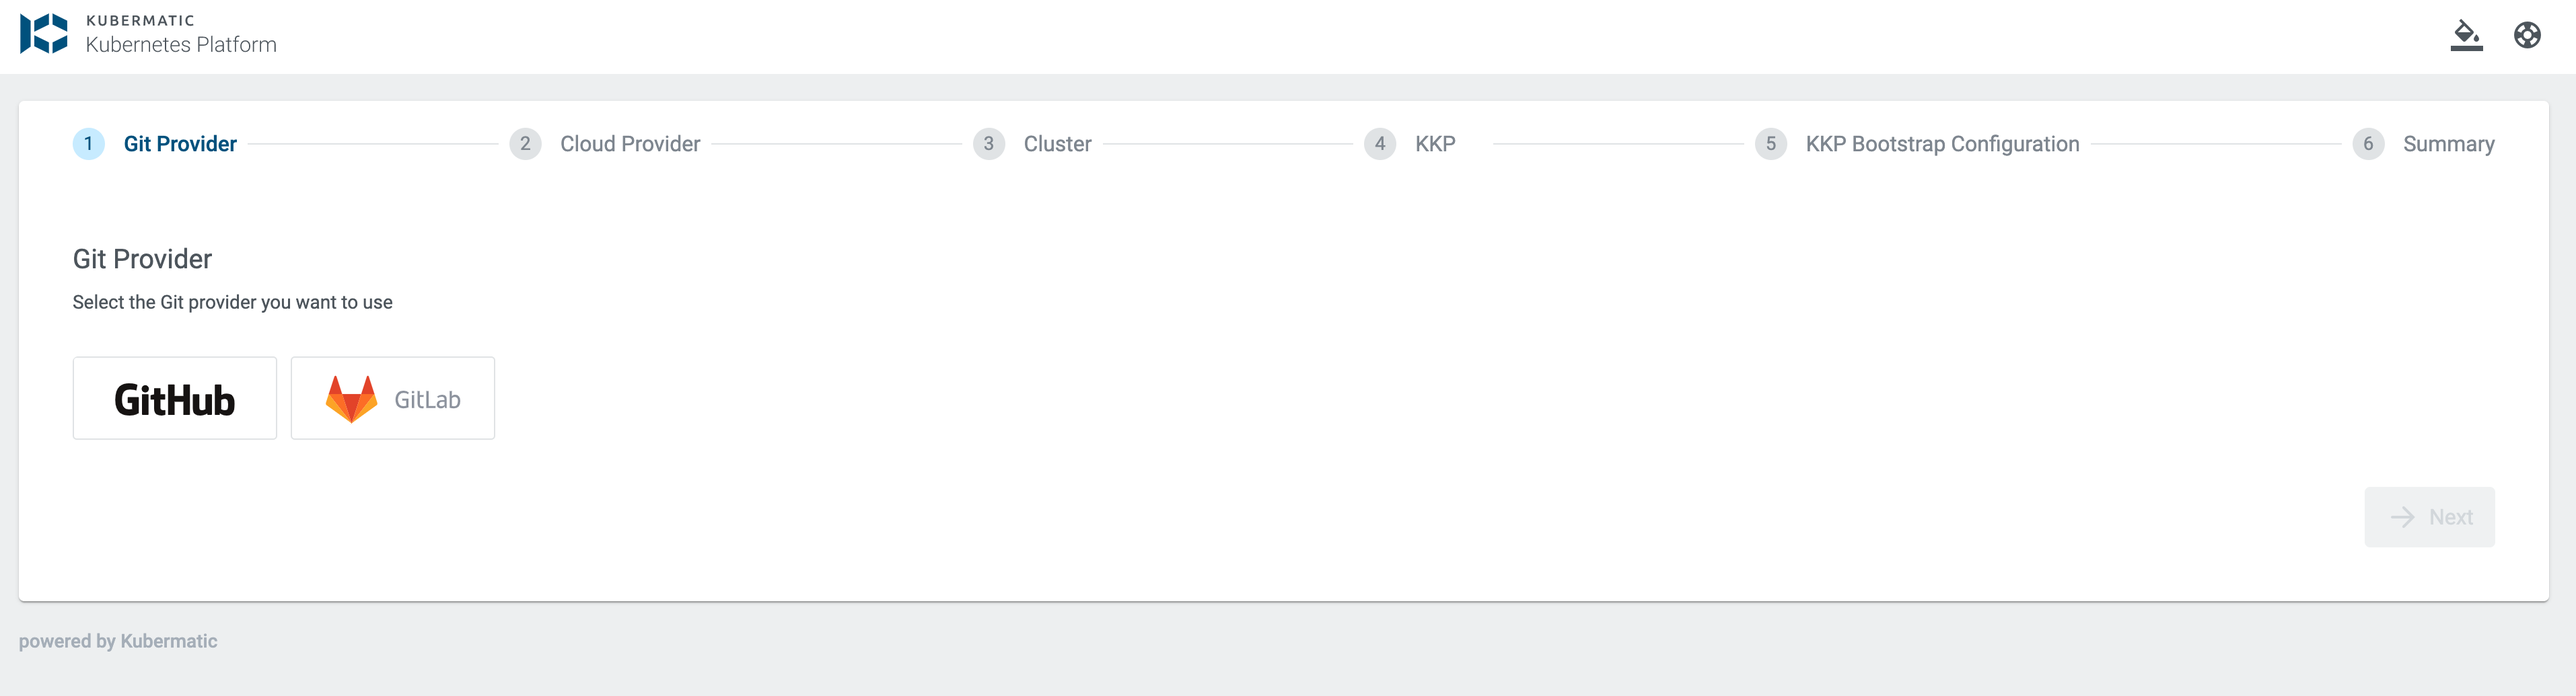
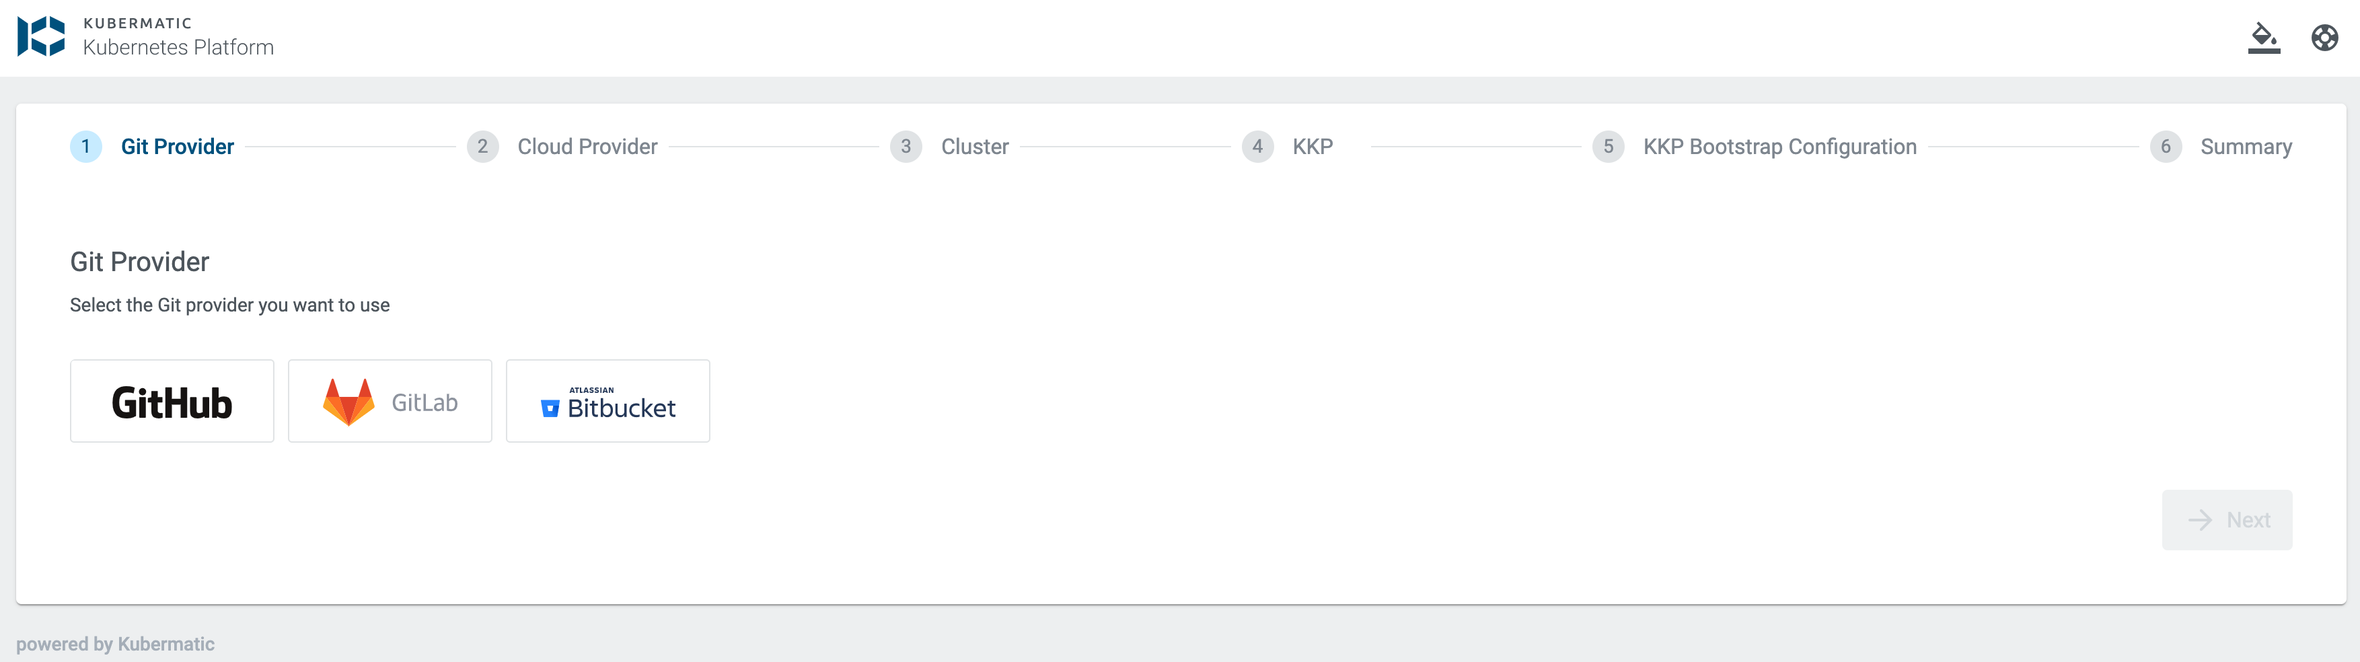
Update start_kkp documentation with Bitbucket

diff --git a/content/kubermatic/master/installation/start_kkp/guides/setup_repository/_index.en.md b/content/kubermatic/master/installation/start_kkp/guides/setup_repository/_index.en.md
@@ -26,6 +26,11 @@ Create new repository on GitLab [manually](https://docs.gitlab.com/ee/user/proje
 
 Also prepare a [GitLab API token](https://docs.gitlab.com/ee/user/profile/personal_access_tokens.html) which will be used for GitOps setup. [Project access token](https://docs.gitlab.com/ee/user/project/settings/project_access_tokens.html) can be used as well.
 {{% /tab %}}
+{{% tab name="Bitbucket" %}}
+Create new repository on Bitbucket [manually](https://support.atlassian.com/bitbucket-cloud/docs/create-a-git-repository/).
+
+The generated SSH Key on the next step will be added to your [SSH Keys](https://bitbucket.org/account/settings/ssh-keys/) for GitOps setup.
+{{% /tab %}}
 {{% /tabs %}}
 
 
@@ -58,6 +63,7 @@ Use `gcloud` CLI tool to create these credentials.
 ```bash
 export GCLOUD_PROJECT="{{ .Configuration.KubernetesSpec.CloudProvider.GCE.Project }}"
 export SERVICE_ACCOUNT_NAME="k1-cluster-provisioner"
+gcloud config set project $GCLOUD_PROJECT
 # create new service account
 gcloud iam service-accounts create "${SERVICE_ACCOUNT_NAME}"
 # get your service account id
@@ -130,6 +136,17 @@ Go to your GitLab project under "Settings" -> "CI/CD" -> "Variables" and setup f
 | `SSH_PRIVATE_KEY`       | The private SSH key (content of `~/.ssh/k8s_rsa`) from above step    |
 | `SSH_PUBLIC_KEY`        | The public SSH key (content of `~/.ssh/k8s_rsa.pub`) from above step |
 {{% /tab %}}
+{{% tab name="Bitbucket" %}}
+Go to your Bitbucket project under "Repository Settings" -> "PIPELINES" -> "Settings" and click on "Enable Pipelines".
+
+Then navigate to "Repository Settings" -> "PIPELINES" -> "Repository Variables" and setup following variables (Make sure that "Secured" is always set):
+
+| Secret Name             | Description                                                                       |
+| ------------------------|-----------------------------------------------------------------------------------|
+| `SOPS_AGE_SECRET_KEY`   | The generated AGE secret key (see _secrets.md_ file)                              |
+| `SSH_PRIVATE_KEY`       | Base64 encoded value of private SSH key (`base64 -w0 k8s_rsa`) from above step    |
+| `SSH_PUBLIC_KEY`        | Base64 encoded value of public SSH key (`base64 -w0 k8s_rsa.pub`) from above step |
+{{% /tab %}}
 {{% /tabs %}}
 
 In addition to above, configure following secrets for selected cloud provider.
@@ -150,9 +167,9 @@ In addition to above, configure following secrets for selected cloud provider.
 | `ARM_CLIENT_SECRET`     | The Azure Client Secret for client authentication                    |
 {{% /tab %}}
 {{% tab name="GCP" %}}
-| Secret Name             | Description                                                                                |
-| ------------------------| -------------------------------------------------------------------------------------------|
-| `GOOGLE_CREDENTIALS`    | The service account key (content of `${SERVICE_ACCOUNT_NAME}-sa-key.json`) from above step |
+| Secret Name             | Description                                                                                                                                                                                        |
+| ------------------------| ---------------------------------------------------------------------------------------------------------------------------------------------------------------------------------------------------|
+| `GOOGLE_CREDENTIALS`    | The service account key (content of `${SERVICE_ACCOUNT_NAME}-sa-key.json`) from above step. For **Bitbucket**, base64 encoded value is required (`base64 -w0 ${SERVICE_ACCOUNT_NAME}-sa-key.json`) |
 {{% /tab %}}
 {{% tab name="OpenStack" %}}
 | Secret Name             | Description                                                          |
@@ -189,7 +206,7 @@ git push -u origin main
 
 ## Enjoy automated pipeline delivery
 
-At this point, GitHub Workflow or GitLab's CI/CD pipeline should be triggered, and you can watch it on your repository.
+At this point, GitHub Workflow, GitLab's CI/CD pipeline or Bitbucket Pipeline should be triggered, and you can watch it on your repository.
 After all steps are complete, it may still take a few minutes to reconcile the required state (as the Flux is delivering additional steps independently).
 
 ![GitHub Workflow](pipeline.png?width=700px&classes=shadow,border "GitHub Workflow")

diff --git a/content/kubermatic/v2.19/installation/start_kkp/guides/setup_repository/_index.en.md b/content/kubermatic/v2.19/installation/start_kkp/guides/setup_repository/_index.en.md
@@ -26,6 +26,11 @@ Create new repository on GitLab [manually](https://docs.gitlab.com/ee/user/proje
 
 Also prepare a [GitLab API token](https://docs.gitlab.com/ee/user/profile/personal_access_tokens.html) which will be used for GitOps setup. [Project access token](https://docs.gitlab.com/ee/user/project/settings/project_access_tokens.html) can be used as well.
 {{% /tab %}}
+{{% tab name="Bitbucket" %}}
+Create new repository on Bitbucket [manually](https://support.atlassian.com/bitbucket-cloud/docs/create-a-git-repository/).
+
+The generated SSH Key on the next step will be added to your [SSH Keys](https://bitbucket.org/account/settings/ssh-keys/) for GitOps setup.
+{{% /tab %}}
 {{% /tabs %}}
 
 
@@ -58,6 +63,7 @@ Use `gcloud` CLI tool to create these credentials.
 ```bash
 export GCLOUD_PROJECT="{{ .Configuration.KubernetesSpec.CloudProvider.GCE.Project }}"
 export SERVICE_ACCOUNT_NAME="k1-cluster-provisioner"
+gcloud config set project $GCLOUD_PROJECT
 # create new service account
 gcloud iam service-accounts create "${SERVICE_ACCOUNT_NAME}"
 # get your service account id
@@ -130,6 +136,17 @@ Go to your GitLab project under "Settings" -> "CI/CD" -> "Variables" and setup f
 | `SSH_PRIVATE_KEY`       | The private SSH key (content of `~/.ssh/k8s_rsa`) from above step    |
 | `SSH_PUBLIC_KEY`        | The public SSH key (content of `~/.ssh/k8s_rsa.pub`) from above step |
 {{% /tab %}}
+{{% tab name="Bitbucket" %}}
+Go to your Bitbucket project under "Repository Settings" -> "PIPELINES" -> "Settings" and click on "Enable Pipelines".
+
+Then navigate to "Repository Settings" -> "PIPELINES" -> "Repository Variables" and setup following variables (Make sure that "Secured" is always set):
+
+| Secret Name             | Description                                                                       |
+| ------------------------|-----------------------------------------------------------------------------------|
+| `SOPS_AGE_SECRET_KEY`   | The generated AGE secret key (see _secrets.md_ file)                              |
+| `SSH_PRIVATE_KEY`       | Base64 encoded value of private SSH key (`base64 -w0 k8s_rsa`) from above step    |
+| `SSH_PUBLIC_KEY`        | Base64 encoded value of public SSH key (`base64 -w0 k8s_rsa.pub`) from above step |
+{{% /tab %}}
 {{% /tabs %}}
 
 In addition to above, configure following secrets for selected cloud provider.
@@ -150,9 +167,9 @@ In addition to above, configure following secrets for selected cloud provider.
 | `ARM_CLIENT_SECRET`     | The Azure Client Secret for client authentication                    |
 {{% /tab %}}
 {{% tab name="GCP" %}}
-| Secret Name             | Description                                                                                |
-| ------------------------| -------------------------------------------------------------------------------------------|
-| `GOOGLE_CREDENTIALS`    | The service account key (content of `${SERVICE_ACCOUNT_NAME}-sa-key.json`) from above step |
+| Secret Name             | Description                                                                                                                                                                                        |
+| ------------------------| ---------------------------------------------------------------------------------------------------------------------------------------------------------------------------------------------------|
+| `GOOGLE_CREDENTIALS`    | The service account key (content of `${SERVICE_ACCOUNT_NAME}-sa-key.json`) from above step. For **Bitbucket**, base64 encoded value is required (`base64 -w0 ${SERVICE_ACCOUNT_NAME}-sa-key.json`) |
 {{% /tab %}}
 {{% tab name="OpenStack" %}}
 | Secret Name             | Description                                                          |
@@ -189,7 +206,7 @@ git push -u origin main
 
 ## Enjoy automated pipeline delivery
 
-At this point, GitHub Workflow or GitLab's CI/CD pipeline should be triggered, and you can watch it on your repository.
+At this point, GitHub Workflow, GitLab's CI/CD pipeline or Bitbucket Pipeline should be triggered, and you can watch it on your repository.
 After all steps are complete, it may still take a few minutes to reconcile the required state (as the Flux is delivering additional steps independently).
 
 ![GitHub Workflow](pipeline.png?width=700px&classes=shadow,border "GitHub Workflow")

diff --git a/content/kubermatic/master/installation/start_kkp/concepts/pipeline_definition/_index.en.md b/content/kubermatic/master/installation/start_kkp/concepts/pipeline_definition/_index.en.md
@@ -2,7 +2,7 @@
 title = "Delivery Pipeline description"
 +++
 
-Automated pipeline was created in GitHub or GitLab to automate all installation steps to have KKP up and running and
+Automated pipeline was created in GitHub, GitLab or Bitbucket to automate all installation steps to have KKP up and running and
 ready to operate with GitOps (using Flux tool).
 
 ![Pipeline Schema](pipeline.png?width=700px&classes=shadow,border "Pipeline Schema")
@@ -11,7 +11,7 @@ Jobs are being triggered on 2 specific events - either on your _Pull (Merge) Req
 
 On pull requests, only the jobs for terraform validate and plan are executed (so that you have visibility what is going to change).
 
-All other jobs are being executed on the _main_ branch after push (in case that any files in directories _kubeone_, _kubermatic_, _terraform_ or _.github_ (_.gitlab-ci.yaml_) have changed).
+All other jobs are being executed on the _main_ branch after push (in case that any files in directories _kubeone_, _kubermatic_, _terraform_ or _.github_ (_.gitlab-ci.yml_ / _bitbucket-pipelines.yml_) have changed).
 
 ## Jobs
 
@@ -22,7 +22,7 @@ Runs validation of Terraform module(s).
 Prepares Terraform backend for storing Terraform state.
 
 {{% notice info %}}
-This is performed only with GitHub and AWS / Azure / GCP. If you are using GitLab, terraform state is stored in GitLab directly.
+This is performed only with [ GitHub / Bitbucket ] and [ AWS / GCP ]. If you are using GitLab, terraform state is stored in GitLab directly.
 {{% /notice %}}
 
 ### terraform-plan
@@ -61,7 +61,7 @@ Optional step for AWS only.
 Runs only after the push in `main` branch.
 
 ### flux-bootstrap
-Initiates Flux v2 using `flux bootstrap github` (or `flux bootstrap gitlab`) command.
+Initiates Flux v2 using `flux bootstrap github` (or `flux bootstrap gitlab` / `flux bootstrap git`) command.
 
 ==> KKP resources (Seed, Preset, Project) and optionally components of Monitoring/Logging/Alerting stack are delivered after Flux is initiated on the cluster,
 Flux itself is also managed by the same repository.

diff --git a/content/kubermatic/v2.19/installation/start_kkp/concepts/pipeline_definition/_index.en.md b/content/kubermatic/v2.19/installation/start_kkp/concepts/pipeline_definition/_index.en.md
@@ -2,7 +2,7 @@
 title = "Delivery Pipeline description"
 +++
 
-Automated pipeline was created in GitHub or GitLab to automate all installation steps to have KKP up and running and
+Automated pipeline was created in GitHub, GitLab or Bitbucket to automate all installation steps to have KKP up and running and
 ready to operate with GitOps (using Flux tool).
 
 ![Pipeline Schema](pipeline.png?width=700px&classes=shadow,border "Pipeline Schema")
@@ -11,7 +11,7 @@ Jobs are being triggered on 2 specific events - either on your _Pull (Merge) Req
 
 On pull requests, only the jobs for terraform validate and plan are executed (so that you have visibility what is going to change).
 
-All other jobs are being executed on the _main_ branch after push (in case that any files in directories _kubeone_, _kubermatic_, _terraform_ or _.github_ (_.gitlab-ci.yaml_) have changed).
+All other jobs are being executed on the _main_ branch after push (in case that any files in directories _kubeone_, _kubermatic_, _terraform_ or _.github_ (_.gitlab-ci.yml_ / _bitbucket-pipelines.yml_) have changed).
 
 ## Jobs
 
@@ -22,7 +22,7 @@ Runs validation of Terraform module(s).
 Prepares Terraform backend for storing Terraform state.
 
 {{% notice info %}}
-This is performed only with GitHub and AWS / Azure / GCP. If you are using GitLab, terraform state is stored in GitLab directly.
+This is performed only with [ GitHub / Bitbucket ] and [ AWS / GCP ]. If you are using GitLab, terraform state is stored in GitLab directly.
 {{% /notice %}}
 
 ### terraform-plan
@@ -61,7 +61,7 @@ Optional step for AWS only.
 Runs only after the push in `main` branch.
 
 ### flux-bootstrap
-Initiates Flux v2 using `flux bootstrap github` (or `flux bootstrap gitlab`) command.
+Initiates Flux v2 using `flux bootstrap github` (or `flux bootstrap gitlab` / `flux bootstrap git`) command.
 
 ==> KKP resources (Seed, Preset, Project) and optionally components of Monitoring/Logging/Alerting stack are delivered after Flux is initiated on the cluster,
 Flux itself is also managed by the same repository.

diff --git a/content/kubermatic/master/installation/start_kkp/guides/explore_content/_index.en.md b/content/kubermatic/master/installation/start_kkp/guides/explore_content/_index.en.md
@@ -11,12 +11,14 @@ Let’s unzip it and take a look at the structure.
 ```text
 .
 ├── .gitignore
-├── .github                  # if GitHub was used as Git provider
+├── .github                     # if GitHub was used as Git provider
 │   └── workflows
 │       └── kkp.yaml
-├── .gitlab-ci.yml           # if GitLab was used as Git provider
-├── README-local-github.md   # if GitHub was used as Git provider
-├── README-local-gitlab.md   # if GitLab was used as Git provider
+├── .gitlab-ci.yml              # if GitLab was used as Git provider
+├── bitbucket-pipelines.yml     # if Bitbucket was used as Git provider
+├── README-local-github.md      # if GitHub was used as Git provider
+├── README-local-gitlab.md      # if GitLab was used as Git provider
+├── README-local-bitbucket.md   # if Bitbucket was used as Git provider
 ├── README.md
 ├── flux
 │   └── clusters
@@ -76,6 +78,7 @@ There are following directories and files:
 
 * _.github/workflows_ - includes CI/CD jobs for automatic provisioning of cluster and KKP installation (if GitHub was selected as the Git provider).
 * _.gitlab-ci.yml_ - includes CI/CD jobs for automatic provisioning of cluster and KKP installation (if GitLab was selected as the Git provider).
+* _bitbucket-pipelines.yml_ - includes CI/CD jobs for automatic provisioning of cluster and KKP installation (if Bitbucket was selected as the Git provider).
 * _flux_ - includes Kubernetes resources organized by namespaces which are delivered to your Kubernetes cluster by the Flux GitOps tool.
   There are 2 subdirectories _master_ and _master-sops_. First one includes plain Kubernetes resources and second one
   the Kubernetes resources with some encrypted values (they are treated in special way using decryption provider with Flux).

diff --git a/content/kubermatic/v2.19/installation/start_kkp/guides/explore_content/_index.en.md b/content/kubermatic/v2.19/installation/start_kkp/guides/explore_content/_index.en.md
@@ -11,12 +11,14 @@ Let’s unzip it and take a look at the structure.
 ```text
 .
 ├── .gitignore
-├── .github                  # if GitHub was used as Git provider
+├── .github                     # if GitHub was used as Git provider
 │   └── workflows
 │       └── kkp.yaml
-├── .gitlab-ci.yml           # if GitLab was used as Git provider
-├── README-local-github.md   # if GitHub was used as Git provider
-├── README-local-gitlab.md   # if GitLab was used as Git provider
+├── .gitlab-ci.yml              # if GitLab was used as Git provider
+├── bitbucket-pipelines.yml     # if Bitbucket was used as Git provider
+├── README-local-github.md      # if GitHub was used as Git provider
+├── README-local-gitlab.md      # if GitLab was used as Git provider
+├── README-local-bitbucket.md   # if Bitbucket was used as Git provider
 ├── README.md
 ├── flux
 │   └── clusters
@@ -76,6 +78,7 @@ There are following directories and files:
 
 * _.github/workflows_ - includes CI/CD jobs for automatic provisioning of cluster and KKP installation (if GitHub was selected as the Git provider).
 * _.gitlab-ci.yml_ - includes CI/CD jobs for automatic provisioning of cluster and KKP installation (if GitLab was selected as the Git provider).
+* _bitbucket-pipelines.yml_ - includes CI/CD jobs for automatic provisioning of cluster and KKP installation (if Bitbucket was selected as the Git provider).
 * _flux_ - includes Kubernetes resources organized by namespaces which are delivered to your Kubernetes cluster by the Flux GitOps tool.
   There are 2 subdirectories _master_ and _master-sops_. First one includes plain Kubernetes resources and second one
   the Kubernetes resources with some encrypted values (they are treated in special way using decryption provider with Flux).

diff --git a/content/kubermatic/master/installation/start_kkp/concepts/_index.en.md b/content/kubermatic/master/installation/start_kkp/concepts/_index.en.md
@@ -24,7 +24,7 @@ Currently, following providers are supported to try KKP:
 
 Required configuration in wizard is different for each of these providers.
 
-### GitHub or GitLab repository
+### GitHub, GitLab or Bitbucket repository
 It will be used for storing the declarative setup of all components,
 can be either public or private, managed by user or organization.
 
@@ -39,6 +39,7 @@ If you have Route53 and willing to try KKP on AWS - records preparation can be f
 
 * **[GitHub Actions / Workflow](https://github.com/features/actions)** - for management of complete delivery pipeline on top of your GitHub repository
 * **[GitLab CI/CD](https://docs.gitlab.com/ee/ci/)** - for management of complete delivery pipeline on top of your GitLab repository
+* **[Bitbucket Pipelines](https://support.atlassian.com/bitbucket-cloud/docs/get-started-with-bitbucket-pipelines/)** - for management of complete delivery pipeline on top of your Bitbucket Cloud repository
 * **[Terraform](https://www.terraform.io/)** - for provisioning of cloud resources for Kubernetes master / seed cluster (the cluster that will run Kubermatic Kubernetes Platform components)
 * **[KubeOne](https://www.kubermatic.com/products/kubeone/)** - for provisioning of Kubernetes master / seed cluster
 * **[KKP installer](https://www.kubermatic.com/products/kubermatic/)** - for installing Kubermatic Kubernetes Platform on master cluster

diff --git a/content/kubermatic/v2.19/installation/start_kkp/concepts/_index.en.md b/content/kubermatic/v2.19/installation/start_kkp/concepts/_index.en.md
@@ -24,7 +24,7 @@ Currently, following providers are supported to try KKP:
 
 Required configuration in wizard is different for each of these providers.
 
-### GitHub or GitLab repository
+### GitHub, GitLab or Bitbucket repository
 It will be used for storing the declarative setup of all components,
 can be either public or private, managed by user or organization.
 
@@ -39,6 +39,7 @@ If you have Route53 and willing to try KKP on AWS - records preparation can be f
 
 * **[GitHub Actions / Workflow](https://github.com/features/actions)** - for management of complete delivery pipeline on top of your GitHub repository
 * **[GitLab CI/CD](https://docs.gitlab.com/ee/ci/)** - for management of complete delivery pipeline on top of your GitLab repository
+* **[Bitbucket Pipelines](https://support.atlassian.com/bitbucket-cloud/docs/get-started-with-bitbucket-pipelines/)** - for management of complete delivery pipeline on top of your Bitbucket Cloud repository
 * **[Terraform](https://www.terraform.io/)** - for provisioning of cloud resources for Kubernetes master / seed cluster (the cluster that will run Kubermatic Kubernetes Platform components)
 * **[KubeOne](https://www.kubermatic.com/products/kubeone/)** - for provisioning of Kubernetes master / seed cluster
 * **[KKP installer](https://www.kubermatic.com/products/kubermatic/)** - for installing Kubermatic Kubernetes Platform on master cluster

diff --git a/content/kubermatic/master/installation/start_kkp/cheat_sheets/access_to_cluster/_index.en.md b/content/kubermatic/master/installation/start_kkp/cheat_sheets/access_to_cluster/_index.en.md
@@ -50,6 +50,16 @@ terraform output -json > output.json
 cd ../..
 ```
 {{% /tab %}}
+{{% tab name="Bitbucket" %}}
+Terraform state is stored at remote s3 compatible location (S3 / GCS), and all required configuration is provided via `backend.tf`.
+
+```bash
+cd terraform/<provider>
+terraform init
+terraform output -json > output.json
+cd ../..
+```
+{{% /tab %}}
 {{% /tabs %}}
 
 ## 2. Prepare SSH Agent with SSH Key

diff --git a/content/kubermatic/v2.19/installation/start_kkp/cheat_sheets/access_to_cluster/_index.en.md b/content/kubermatic/v2.19/installation/start_kkp/cheat_sheets/access_to_cluster/_index.en.md
@@ -50,6 +50,16 @@ terraform output -json > output.json
 cd ../..
 ```
 {{% /tab %}}
+{{% tab name="Bitbucket" %}}
+Terraform state is stored at remote s3 compatible location (S3 / GCS), and all required configuration is provided via `backend.tf`.
+
+```bash
+cd terraform/<provider>
+terraform init
+terraform output -json > output.json
+cd ../..
+```
+{{% /tab %}}
 {{% /tabs %}}
 
 ## 2. Prepare SSH Agent with SSH Key

diff --git a/content/kubermatic/master/installation/start_kkp/cheat_sheets/troubleshoot_pipeline/_index.en.md b/content/kubermatic/master/installation/start_kkp/cheat_sheets/troubleshoot_pipeline/_index.en.md
@@ -25,4 +25,4 @@ flux bootstrap github --owner=<org-name> --repository=<repo-name> --branch=main 
 ```
 
 In general in case of any failure, we recommend trying the steps locally (following the instructions in
-`README-local-(github|gitlab).md`) and find the right cause of the problem.
+`README-local-(github|gitlab|bitbucket).md`) and find the right cause of the problem.

diff --git a/content/kubermatic/v2.19/installation/start_kkp/cheat_sheets/troubleshoot_pipeline/_index.en.md b/content/kubermatic/v2.19/installation/start_kkp/cheat_sheets/troubleshoot_pipeline/_index.en.md
@@ -25,4 +25,4 @@ flux bootstrap github --owner=<org-name> --repository=<repo-name> --branch=main 
 ```
 
 In general in case of any failure, we recommend trying the steps locally (following the instructions in
-`README-local-(github|gitlab).md`) and find the right cause of the problem.
+`README-local-(github|gitlab|bitbucket).md`) and find the right cause of the problem.
